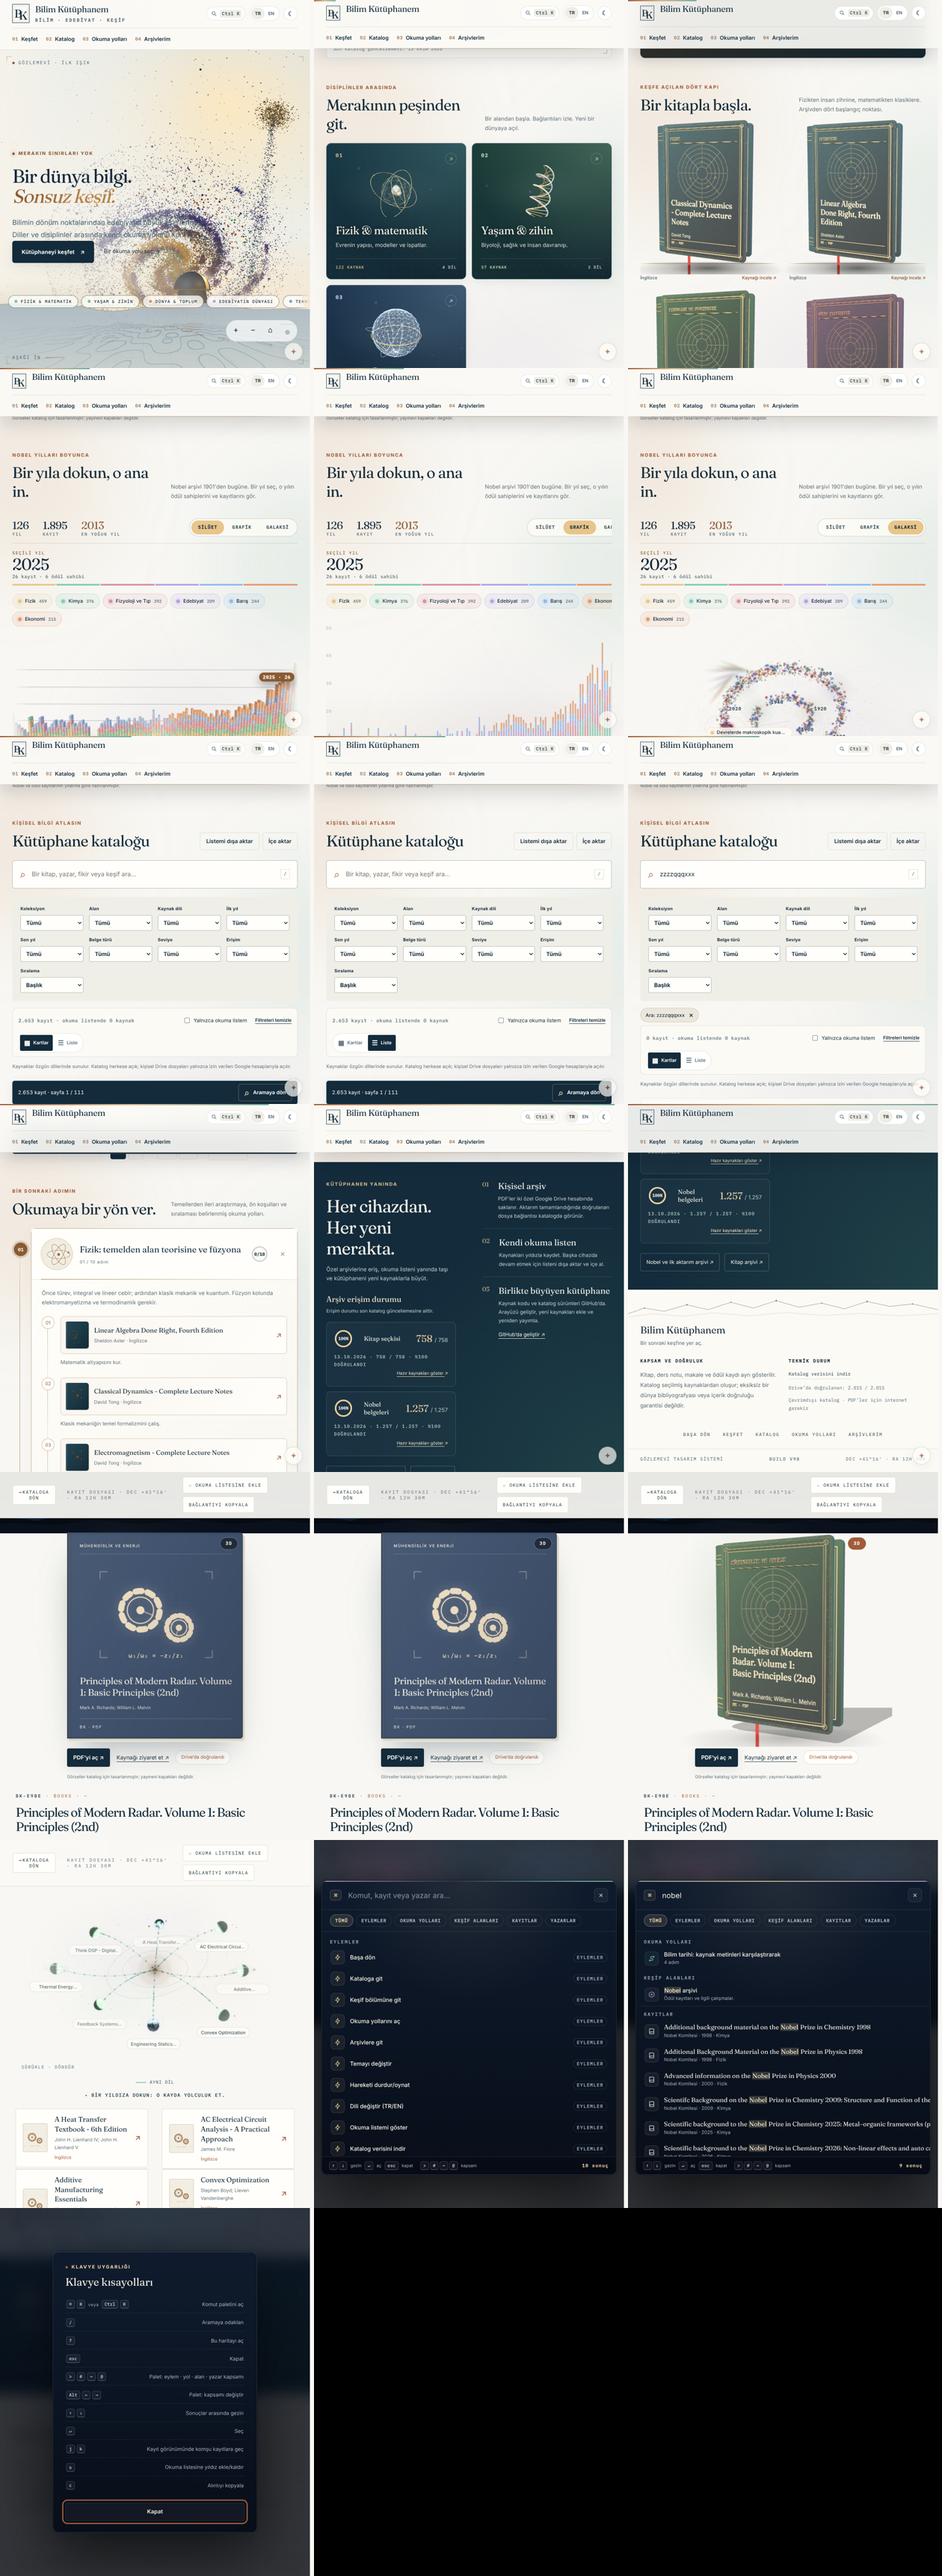
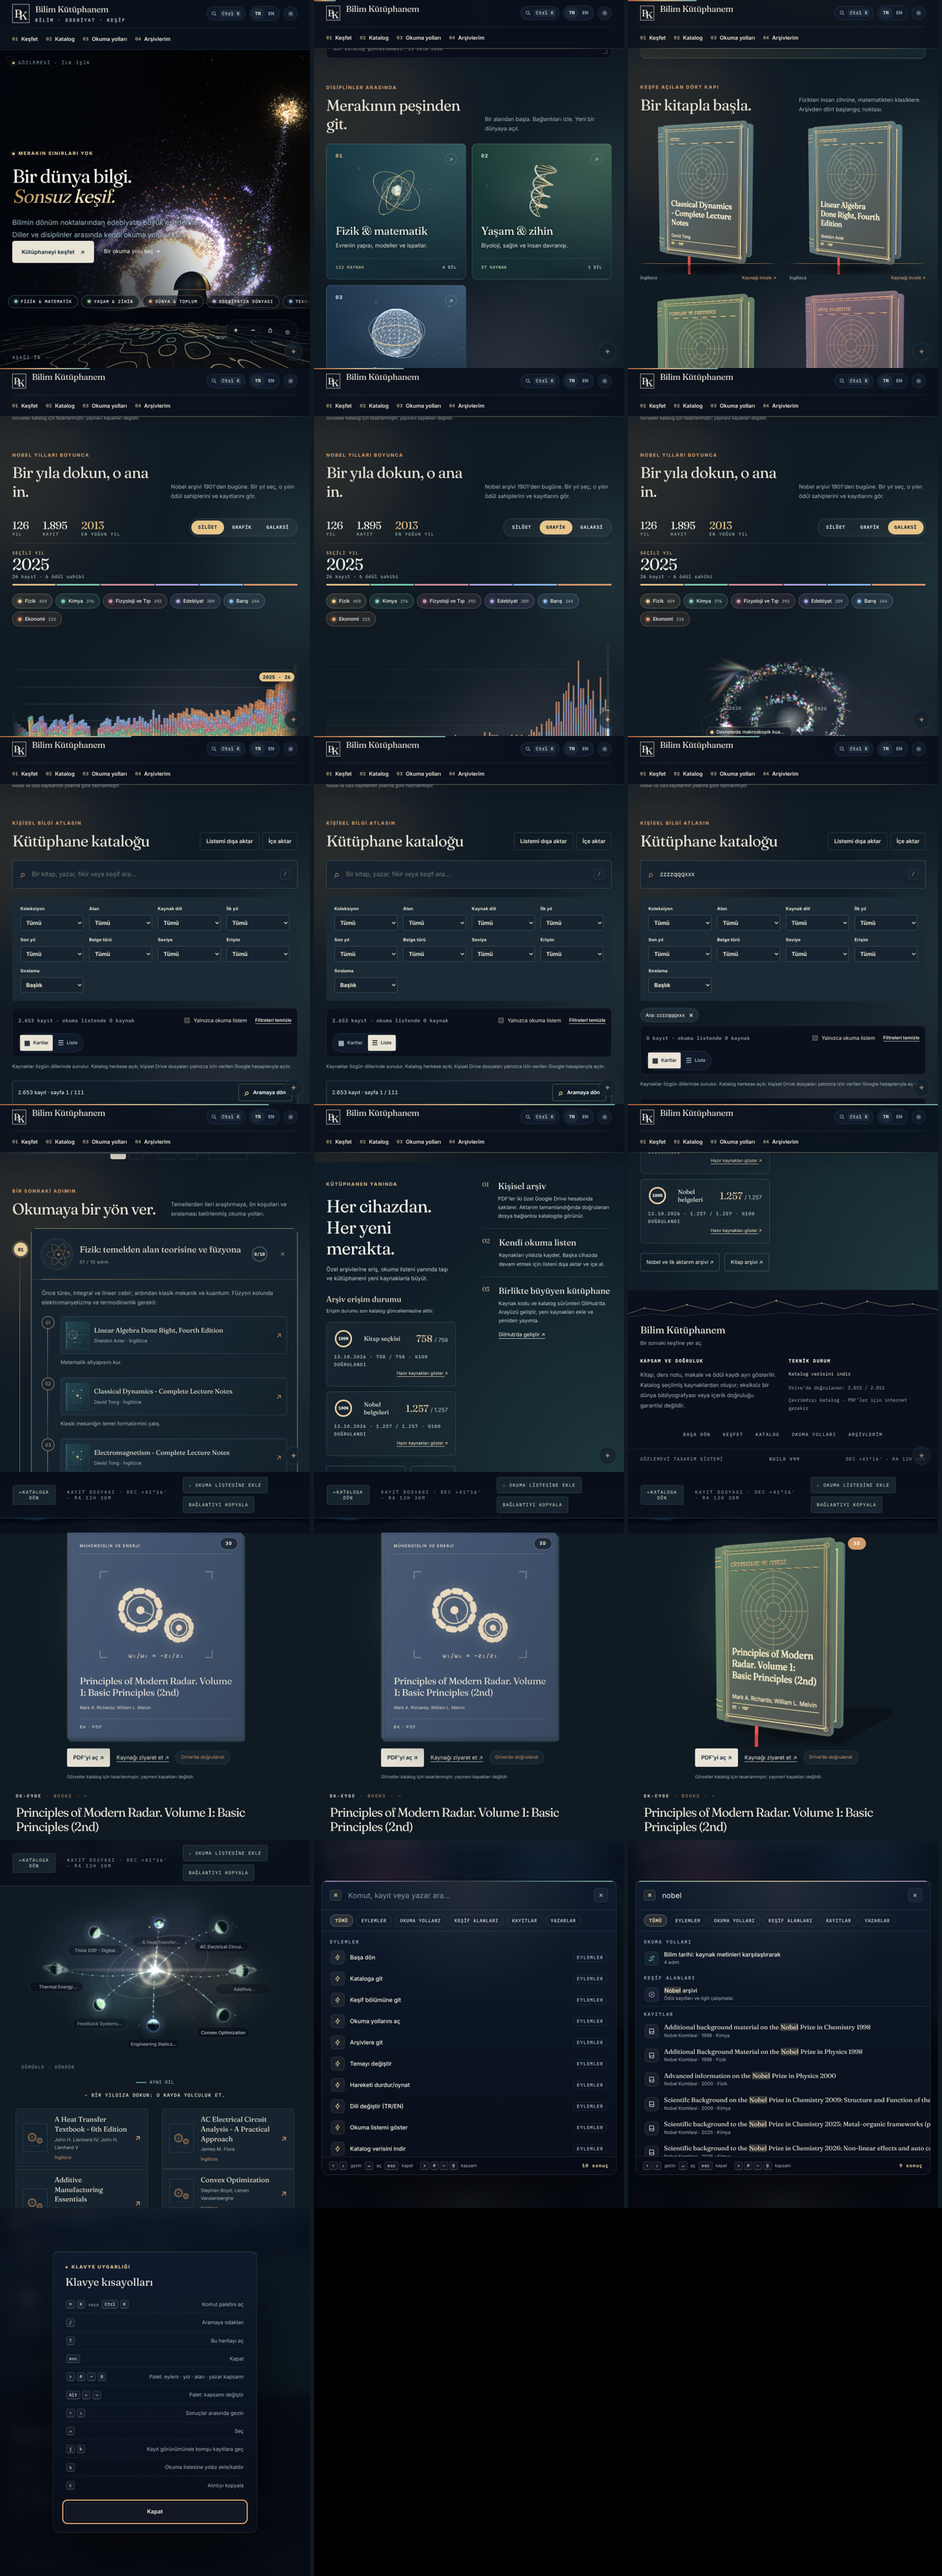
record: guard cite wave for stubbed DOM (check_app), 768 tour screenshots
Claude-Session: https://claude.ai/code/session_01GTXipf6cUzVQFgL2AuFcrv

diff --git a/site/record.js b/site/record.js
@@ -87,7 +87,7 @@
  document.getElementById('recordBack').addEventListener('click',close);
  document.getElementById('recordFavorite').addEventListener('click',()=>{if(!current)return;favorites.has(current.id)?favorites.delete(current.id):favorites.add(current.id);saveFavorites();render();renderRecord();const star=document.getElementById('recordFavorite');star.setAttribute('aria-pressed',String(favorites.has(current.id)))});
  document.getElementById('recordShare').addEventListener('click',async()=>{if(!current)return;const u=shareUrl(current);try{await navigator.clipboard.writeText(u.href);toast(t('linkCopied'))}catch{document.getElementById('recordShareFallback').hidden=false;const input=document.getElementById('recordShareUrl');input.value=u.href;input.focus();input.select()}});
- document.addEventListener('click',event=>{const cite=event.target.closest('#recordCiteCopy');if(cite&&current){cite.classList.remove('wave');void cite.offsetWidth;cite.classList.add('wave');copyText(citation(current).full,t('citedCopied'));return}const card=event.target.closest('#recordShareCard');if(card&&current)drawShareCard(current)});
+ document.addEventListener('click',event=>{const cite=event.target.closest('#recordCiteCopy');if(cite&&current){if(cite.classList){cite.classList.remove('wave');void cite.offsetWidth;cite.classList.add('wave')}copyText(citation(current).full,t('citedCopied'));return}const card=event.target.closest('#recordShareCard');if(card&&current)drawShareCard(current)});
  async function copyText(text,doneKey){try{await navigator.clipboard.writeText(text);toast(t(doneKey))}catch{document.getElementById('recordShareFallback').hidden=false;const input=document.getElementById('recordShareUrl');input.value=text;input.focus();input.select()}}
 
  /* Paylaşım kartı: 1200×630 PNG, tamamen istemci tarafında, çevrimdışı. */
